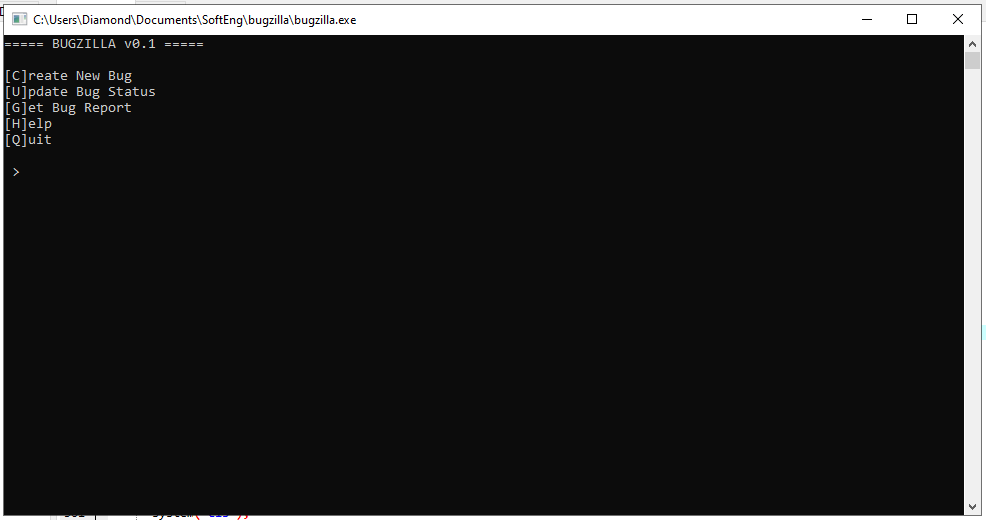
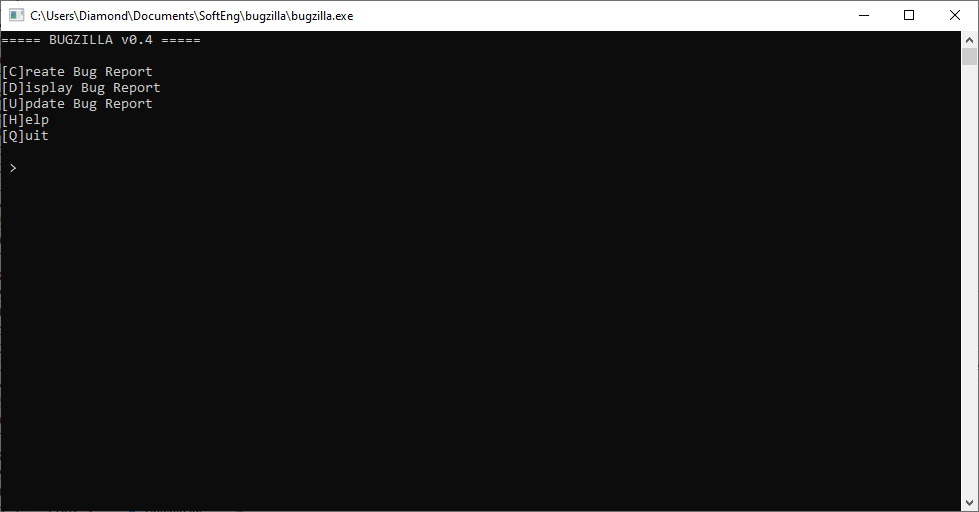
Bring up documentation to 0.4 release

Changed region(s): [[0.0, 0.0, 1.0, 1.0]]

diff --git a/README.md b/README.md
@@ -3,6 +3,8 @@ Bug tracker for SME software developers.
 
 ![bugzilla main menu](res/mainmenu.png)
 
+![bugzilla help](res/help.png)
+
 ## Description
 Allows for bug tracking and management.
 
